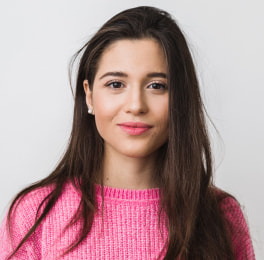
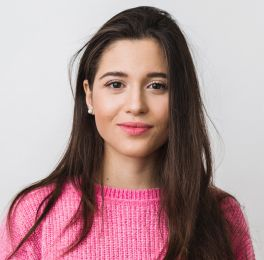
imgs

diff --git a/index.html b/index.html
@@ -202,6 +202,10 @@
             <li class="team-item">
               <img
                 src="./images/our_team/markguerrero.jpg"
+                srcset="
+                  ./images/our_team/markguerrero.jpg    1x,
+                  ./images/our_team/markguerrero@2x.jpg 2x
+                "
                 alt="Mark Guerrero"
                 width="264"
                 class="team-img"
@@ -264,6 +268,10 @@
             <li class="team-item">
               <img
                 src="./images/our_team/tomford.jpg"
+                srcset="
+                  ./images/our_team/tomford.jpg    1x,
+                  ./images/our_team/tomford@2x.jpg 2x
+                "
                 alt="Tom Ford"
                 width="264"
                 class="team-img"
@@ -326,6 +334,10 @@
             <li class="team-item">
               <img
                 src="./images/our_team/camilagarcia.jpg"
+                srcset="
+                  ./images/our_team/camilagarcia.jpg    1x,
+                  ./images/our_team/camilagarcia@2x.jpg 2x
+                "
                 alt="Camila Garcia"
                 width="264"
                 class="team-img"
@@ -388,6 +400,10 @@
             <li class="team-item">
               <img
                 src="./images/our_team/danielwilson.jpg"
+                srcset="
+                  ./images/our_team/danielwilson.jpg    1x,
+                  ./images/our_team/danielwilson@2x.jpg 2x
+                "
                 alt="Daniel Wilson"
                 width="264"
                 class="team-img"
